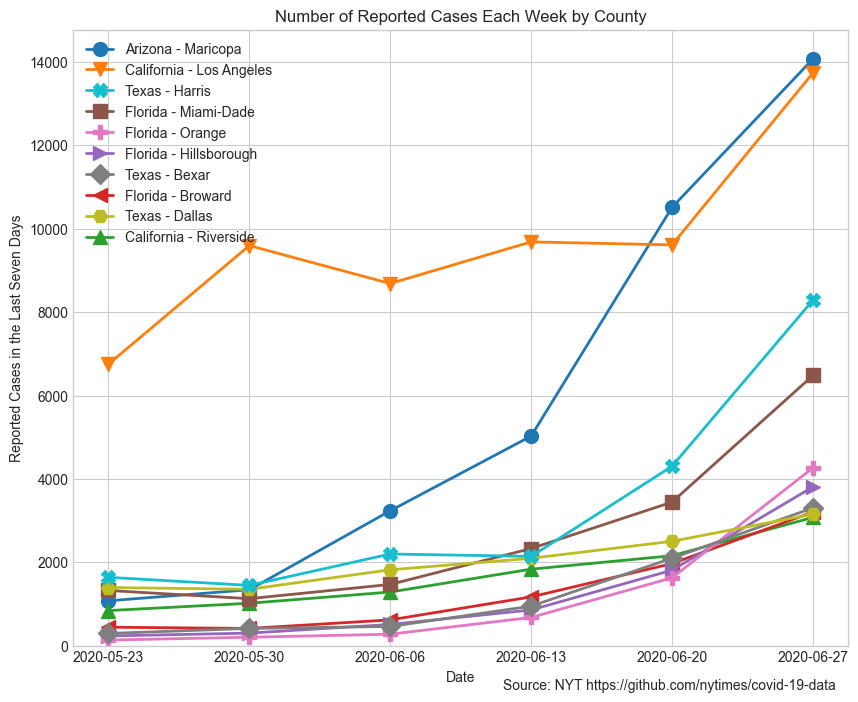
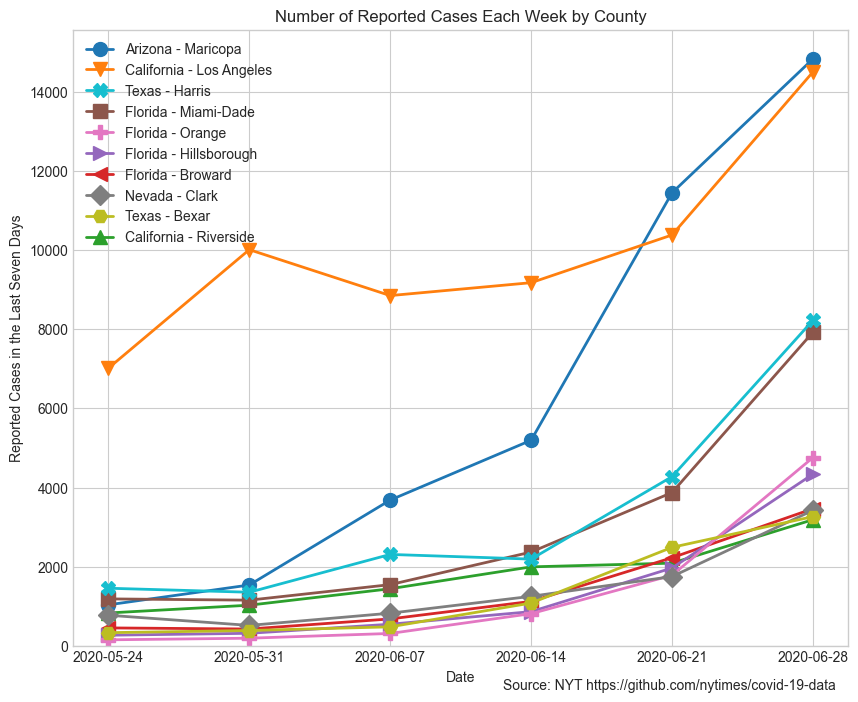
update with 6/28 data

diff --git a/README.md b/README.md
@@ -1,6 +1,6 @@
 # Coronavirus in the U.S.
 
-The plots below show the ten states and ten counties with the most reported cases of Covid-19 in the last seven days, as of June 27, 2020. 
+The plots below show the ten states and ten counties with the most reported cases of Covid-19 in the last seven days, as of June 28, 2020. 
 
 ## Reported cases by state
 
